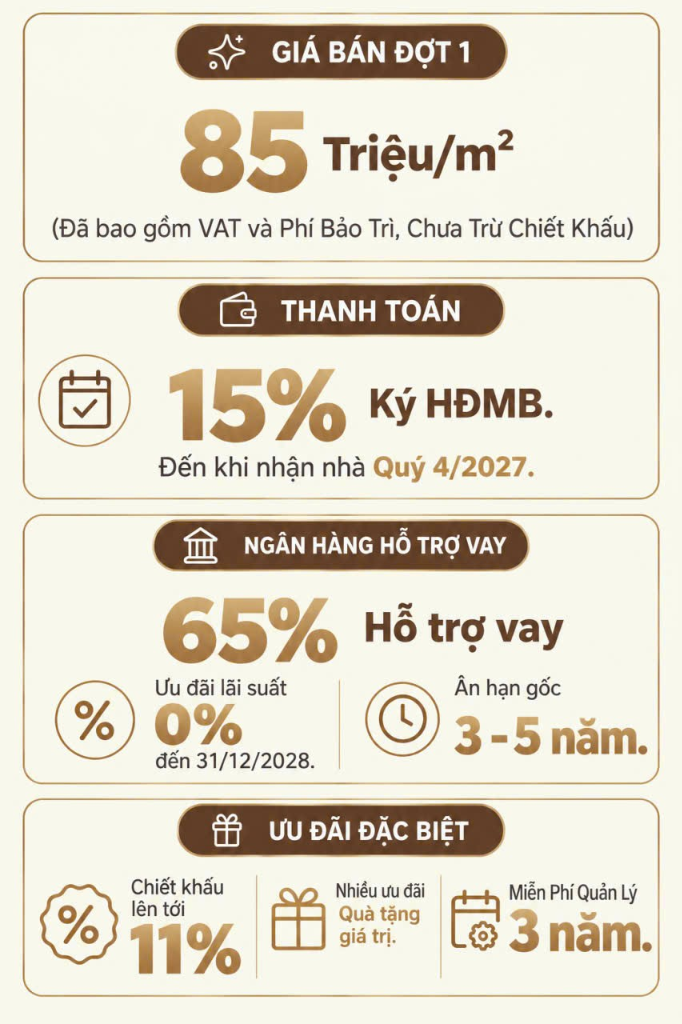
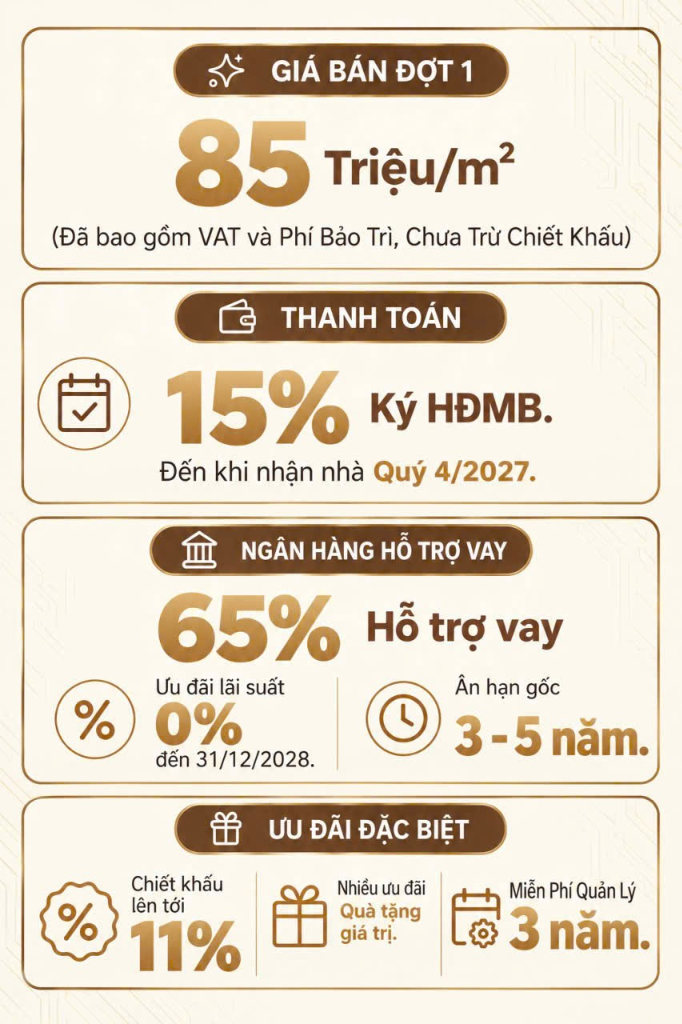
feat(green-skyline): sync staging sandbox

Changed region(s): [[0.0308, 0.0, 0.9853, 0.9688], [0.9545, 0.7812, 0.9853, 0.8438], [0.7698, 0.5938, 0.8314, 0.625]]

diff --git a/du-an/vlasta-premier/index.html b/du-an/vlasta-premier/index.html
@@ -27,7 +27,7 @@
 <link rel="preload" as="image" href="/assets/vlasta-premier/media/vlasta-mobile-poster.jpg" media="(max-width: 767px)" fetchpriority="high" />
 <link rel="preload" as="image" href="/assets/vlasta-premier/media/vlasta-desktop-poster.jpg" media="(min-width: 768px)" fetchpriority="high" />
 <link rel="preload" as="image" href="/assets/vlasta-premier/media/vlasta-nhan-sinh-nhu-mong.jpg" fetchpriority="high" />
-<link rel="preload" as="image" href="/assets/vlasta-premier/media/vlasta-5-tru-cot.png?v=3" fetchpriority="high" />
+<link rel="preload" as="image" href="/assets/vlasta-premier/media/vlasta-5-tru-cot-v4.png?v=4" fetchpriority="high" />
 	<!-- This site is optimized with the Yoast SEO plugin v21.5 - https://yoast.com/wordpress/plugins/seo/ -->
 	<title>Vlasta Premier - Website Chính Thức</title>
 	<link rel="canonical" href="#top" />
@@ -1091,7 +1091,7 @@ p {
 
 	<div class="img has-hover x md-x lg-x y md-y lg-y" id="image_5_tru_cot">
 								<div class="img-inner dark" >
-			<img loading="eager" fetchpriority="high" decoding="async" width="682" height="1024" src="/assets/vlasta-premier/media/vlasta-5-tru-cot.png?v=3" class="attachment-original size-original" alt="5 Trụ cột bảo chứng giá trị của Vlasta Premier Phú Thuận" />						
+			<img loading="eager" fetchpriority="high" decoding="async" width="682" height="1024" src="/assets/vlasta-premier/media/vlasta-5-tru-cot-v4.png?v=4" class="attachment-original size-original" alt="5 Trụ cột bảo chứng giá trị của Vlasta Premier Phú Thuận" />						
 					</div>
 								
 <style>
@@ -1242,110 +1242,17 @@ p {
 	
 
 	<div id="col-1791745474" class="col medium-12 small-12 large-12" data-animate="fadeInLeft">
-		<div class="col-inner vlasta-kn-wrap">
-			<svg class="vlasta-kn-bg-art vlasta-kn-bg-art--tr" viewBox="0 0 130 220" fill="none" xmlns="http://www.w3.org/2000/svg" aria-hidden="true">
-				<g stroke="#c9b497" stroke-width="1" opacity="0.55">
-					<polygon points="45,0 105,36 105,150 45,114" />
-					<polygon points="53,12 97,38 97,138 53,112" />
-					<polygon points="80,25 130,55 130,200 80,170" />
-					<polygon points="88,37 122,57 122,188 88,168" />
-				</g>
-			</svg>
-			<svg class="vlasta-kn-bg-art vlasta-kn-bg-art--bl" viewBox="0 0 110 150" fill="none" xmlns="http://www.w3.org/2000/svg" aria-hidden="true">
-				<g stroke="#c9b497" stroke-width="1" opacity="0.55">
-					<polygon points="0,25 55,58 55,150 0,117" />
-					<polygon points="8,37 47,60 47,138 8,115" />
-				</g>
-			</svg>
-			<div id="text-2105920118" class="text vlasta-kn-card">
-				<h3 class="vlasta-kn-card__title">Kết nối giao thông thuận lợi</h3>
-				<div class="vlasta-kn-card__line"></div>
-				<p class="vlasta-kn-card__lead">Từ Vlasta Premier – Phú Thuận, ba cây cầu huyết mạch Phú Mỹ – Thủ Thiêm 4 – Phú Mỹ 2, Đường Nguyễn Tất Thành dự kiến mở rộng 8 làn xe… đang và sẽ tiếp tục kiến tạo những nhịp nối chiến lược, đưa cư dân kết nối nhanh đến mọi trung tâm phồn hoa:</p>
-				<p class="vlasta-kn-card__item"><span class="vlasta-kn-card__time">✦ 10 PHÚT: </span>Để chạm tới nhịp sống quốc tế tại Phú Mỹ Hưng, Lotte, Unilever</p>
-				<p class="vlasta-kn-card__item"><span class="vlasta-kn-card__time">✦ 15 PHÚT: </span>Kết nối Quận 1 – trung tâm hành chính và văn hóa của thành phố</p>
-				<p class="vlasta-kn-card__item"><span class="vlasta-kn-card__time">✦ 20 PHÚT: </span>Đến Thủ Đức – Thủ Thiêm, trung tâm tài chính – công nghệ mới</p>
-				<p class="vlasta-kn-card__item vlasta-kn-card__item--last"><span class="vlasta-kn-card__time">✦ 45 PHÚT: </span>Tới Sân bay Long Thành, cửa ngõ giao thương quốc tế</p>
+		<div class="col-inner dark">
+			<div id="text-2105920118" class="text blue-col">
+				<h3 style="text-align: left; margin-bottom: 12px;"><span style="font-size: 130%; color: #ffd67d;">Kết nối giao thông thuận lợi</span></h3>
+				<p style="text-align: justify; padding-bottom: 12px; margin-bottom: 12px; border-bottom: 1px solid rgba(197, 139, 67, 0.28);">Từ Vlasta Premier – Phú Thuận, ba cây cầu huyết mạch Phú Mỹ – Thủ Thiêm 4 – Phú Mỹ 2, Đường Nguyễn Tất Thành dự kiến mở rộng 8 làn xe… đang và sẽ tiếp tục kiến tạo những nhịp nối chiến lược, đưa cư dân kết nối nhanh đến mọi trung tâm phồn hoa:</p>
+				<p style="text-align: justify; padding-bottom: 12px; margin-bottom: 12px; border-bottom: 1px solid rgba(197, 139, 67, 0.28);"><span style="font-weight: 400;"><span style="color: #ffd67d;">✦ <strong>10 PHÚT: </strong></span>Để chạm tới nhịp sống quốc tế tại Phú Mỹ Hưng, Lotte, Unilever</span></p>
+				<p style="text-align: justify; padding-bottom: 12px; margin-bottom: 12px; border-bottom: 1px solid rgba(197, 139, 67, 0.28);"><span style="font-weight: 400;"><strong><span style="color: #ffd67d;">✦ 15 PHÚT: </span></strong>Kết nối Quận 1 – trung tâm hành chính và văn hóa của thành phố</span></p>
+				<p style="text-align: justify; padding-bottom: 12px; margin-bottom: 12px; border-bottom: 1px solid rgba(197, 139, 67, 0.28);"><span style="font-weight: 400;"><span style="color: #ffd67d;">✦ <strong>20 PHÚT: </strong></span>Đến Thủ Đức &#8211; Thủ Thiêm, trung tâm tài chính &#8211; công nghệ mới</span></p>
+				<p style="text-align: justify; margin-bottom: 0;"><span style="font-weight: 400;"><span style="color: #ffd67d;">✦ <strong>45 PHÚT:</strong></span> Tới Sân bay Long Thành, cửa ngõ giao thương quốc tế</span></p>
 			</div>
-			<style>
-				.vlasta-kn-wrap {
-					position: relative;
-					padding: 14px 4px 18px 4px;
-				}
-				.vlasta-kn-bg-art {
-					position: absolute;
-					pointer-events: none;
-					z-index: 0;
-				}
-				.vlasta-kn-bg-art--tr {
-					top: -12px;
-					right: -15px;
-					width: 115px;
-					height: auto;
-				}
-				.vlasta-kn-bg-art--bl {
-					bottom: -10px;
-					left: -15px;
-					width: 90px;
-					height: auto;
-				}
-				#text-2105920118.vlasta-kn-card {
-					position: relative;
-					z-index: 1;
-					width: 100%;
-					background: #faf5eb;
-					border: 1.5px solid #5c3721;
-					border-radius: 18px;
-					padding: 26px 22px 26px 22px !important;
-					box-shadow: 0 8px 24px rgba(92, 55, 33, 0.08);
-					box-sizing: border-box;
-				}
-				#text-2105920118.vlasta-kn-card::before {
-					content: "";
-					position: absolute;
-					top: 4px;
-					right: 4px;
-					bottom: 4px;
-					left: 4px;
-					border: 1px solid rgba(197, 155, 95, 0.35);
-					border-radius: 14px;
-					pointer-events: none;
-				}
-				.vlasta-kn-card__title {
-					font-family: "Times New Roman", Georgia, serif !important;
-					font-size: 27px !important;
-					line-height: 1.25 !important;
-					font-weight: 700 !important;
-					color: #4a2d18 !important;
-					text-align: left !important;
-					margin: 0 0 12px 0 !important;
-				}
-				.vlasta-kn-card__line {
-					width: 96px;
-					height: 1.5px;
-					background: #c59b5f;
-					margin: 0 0 16px 0;
-				}
-				.vlasta-kn-card__lead,
-				.vlasta-kn-card__item {
-					font-family: Arial, Helvetica, sans-serif !important;
-					font-size: 16.5px !important;
-					line-height: 1.58 !important;
-					color: #4a3728 !important;
-					text-align: justify !important;
-					margin: 0 0 14px 0 !important;
-				}
-				.vlasta-kn-card__item--last {
-					margin-bottom: 0 !important;
-				}
-				.vlasta-kn-card__time {
-					color: #c5913a !important;
-					font-weight: 700 !important;
-				}
-			</style>
 		</div>
 	</div>
-
-	
 </div>
 	<div id="gap-688805434" class="gap-element clearfix" style="display:block; height:auto;">
 		
@@ -1364,7 +1271,11 @@ p {
 #section_409140964 {
   padding-top: 24px;
   padding-bottom: 0px !important;
-  background-color: rgb(248, 247, 242);
+  background-color: #faf5eb !important;
+}
+#section_409140964 .section-bg {
+  background-color: #faf5eb !important;
+  background-image: none !important;
 }
 #section_409140964 .ux-shape-divider--top svg {
   height: 150px;
@@ -1398,7 +1309,7 @@ p {
 			.vlasta-nk-intro {
 				position: relative;
 				width: 100%;
-				background-color: #f3ede0;
+				background-color: #faf5eb;
 				padding: 28px 26px 8px 26px;
 				overflow: hidden;
 				box-sizing: border-box;
@@ -1970,12 +1881,12 @@ p {
 	</section>
 
 <span class="scroll-to" data-label="Scroll to: #banggia" data-bullet="true" data-link="#banggia" data-title="Bảng Giá"><a name="banggia"></a></span>
-	<div id="section_gia_ban_heading" style="background-color: #fbf6eb; padding: 28px 15px 12px 15px; text-align: center;">
+	<div id="section_gia_ban_heading" style="background-color: #faf5eb; padding: 28px 15px 12px 15px; text-align: center;">
 		<h2 style="text-align: center; margin: 0;"><span style="font-size: 150%; color: #5d3722;">GIÁ BÁN VÀ CHÍNH SÁCH BÁN HÀNG</span></h2>
 	</div>
 	<div class="img has-hover x md-x lg-x y md-y lg-y" id="image_5_chinh_sach_ban_hang" style="width: 100%; margin: 0; padding: 0;">
 		<div class="img-inner dark">
-			<img loading="lazy" decoding="async" width="682" height="1024" src="/assets/vlasta-premier/media/vlasta-gia-ban-csbh.png?v=1" class="attachment-original size-original" alt="Giá bán và Chính Sách Bán Hàng Vlasta Premier Phú Thuận" style="width: 100%; height: auto; display: block;" />
+			<img loading="lazy" decoding="async" width="682" height="1024" src="/assets/vlasta-premier/media/vlasta-gia-ban-csbh-v2.png?v=2" class="attachment-original size-original" alt="Giá bán và Chính Sách Bán Hàng Vlasta Premier Phú Thuận" style="width: 100%; height: auto; display: block;" />
 		</div>
 	</div>
 	<div class="img has-hover x md-x lg-x y md-y lg-y" id="image_doi_tac" style="width: 100%; margin: 0; padding: 0;">
